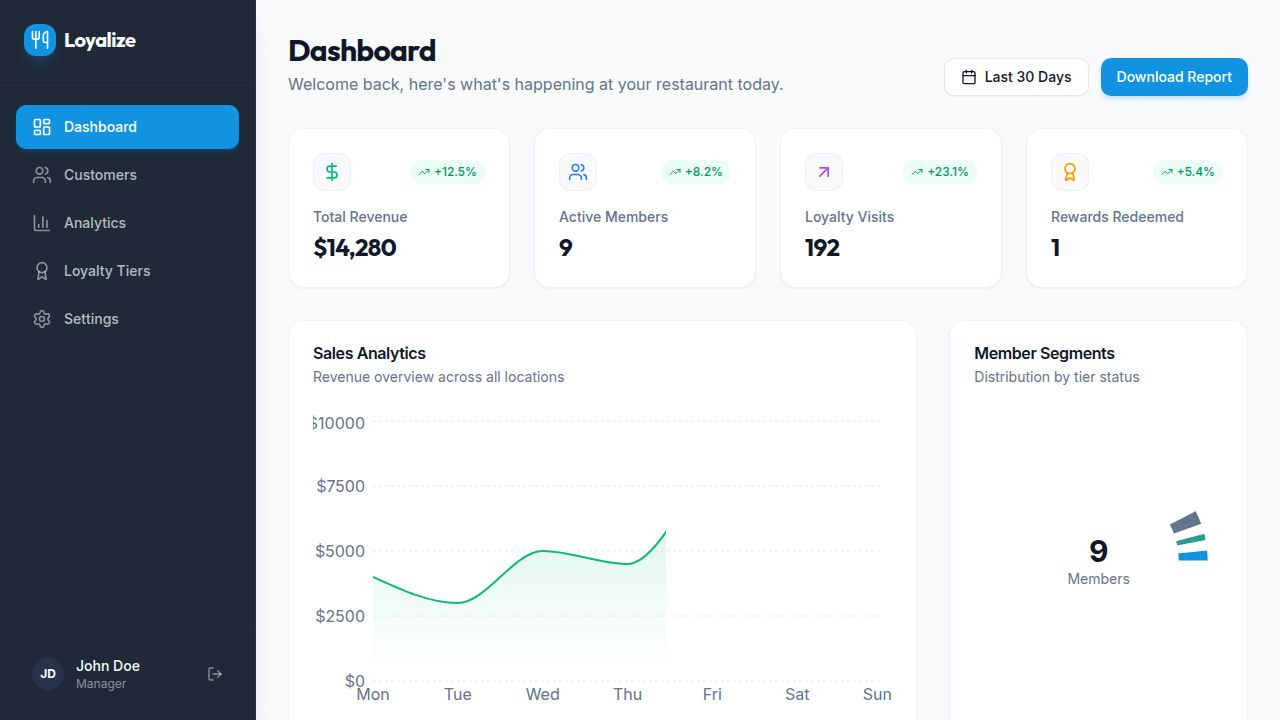
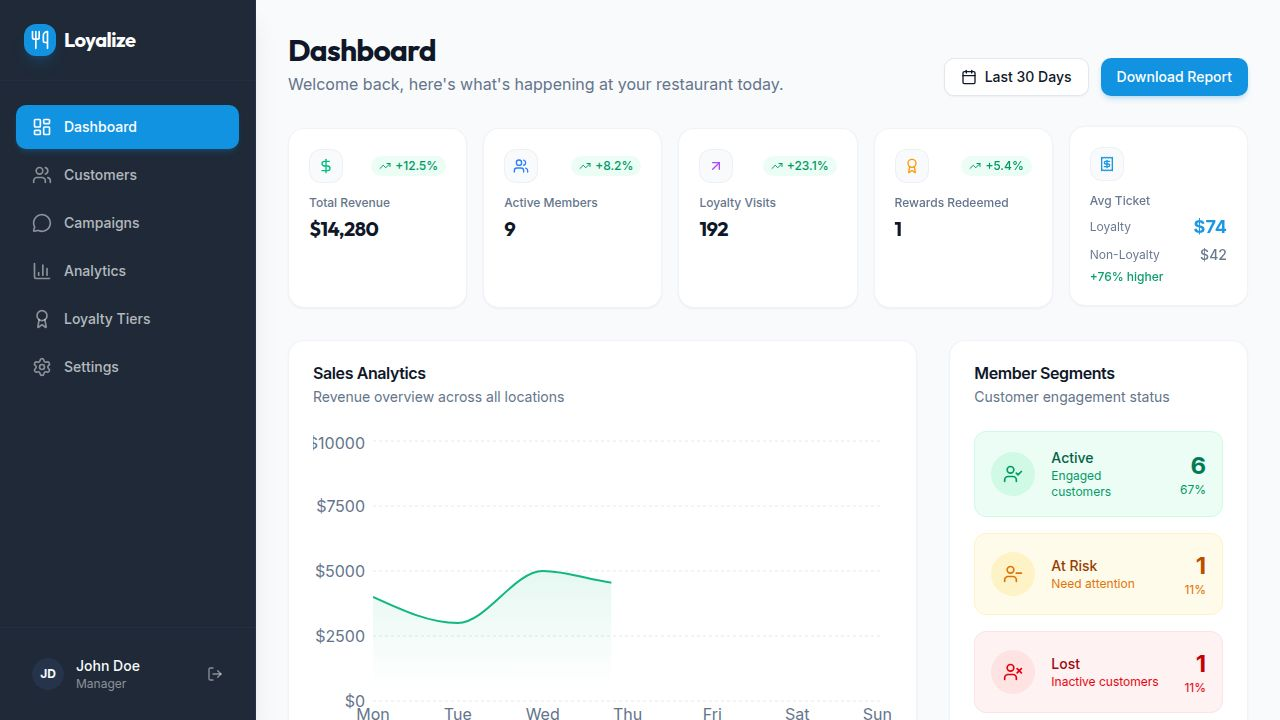
Enhance dashboard with new customer insights and performance metrics
Updates the Dashboard page to include average ticket fields, member segment breakdowns (active, at risk, lost), customer status in recent activity, and a clearer ROI performance section.

Replit-Commit-Author: Agent
Replit-Commit-Session-Id: 42aafcce-3028-4ab4-af1b-540ea4df2283
Replit-Commit-Checkpoint-Type: full_checkpoint
Replit-Commit-Event-Id: 954d9241-168f-4292-a077-9f0b1edd58d3
Replit-Commit-Screenshot-Url: https://storage.googleapis.com/screenshot-production-us-central1/ea7dd70d-8589-477d-a2ce-31a386247f2c/42aafcce-3028-4ab4-af1b-540ea4df2283/O4qFbhi
Replit-Helium-Checkpoint-Created: true

diff --git a/client/src/pages/Dashboard.tsx b/client/src/pages/Dashboard.tsx
@@ -1,7 +1,7 @@
 import { Layout } from "@/components/Layout";
 import { Card, CardContent, CardHeader, CardTitle, CardDescription } from "@/components/ui/card";
-import { AreaChart, Area, XAxis, YAxis, CartesianGrid, Tooltip, ResponsiveContainer, BarChart, Bar, PieChart, Pie, Cell } from 'recharts';
-import { TrendingUp, Users, Award, ArrowUpRight, DollarSign, Calendar, Loader2 } from "lucide-react";
+import { AreaChart, Area, XAxis, YAxis, CartesianGrid, Tooltip, ResponsiveContainer, BarChart, Bar, Legend } from 'recharts';
+import { TrendingUp, Users, Award, ArrowUpRight, DollarSign, Calendar, Loader2, UserCheck, UserX, UserMinus, Receipt } from "lucide-react";
 import { motion } from "framer-motion";
 import { useQuery } from "@tanstack/react-query";
 import { dashboardApi, customersApi, activitiesApi } from "@/lib/api";
@@ -17,10 +17,10 @@ const salesData = [
 ];
 
 const roiData = [
-  { month: 'Jan', cost: 1200, revenue: 8500 },
-  { month: 'Feb', cost: 1400, revenue: 9800 },
-  { month: 'Mar', cost: 1100, revenue: 10500 },
-  { month: 'Apr', cost: 1600, revenue: 12000 },
+  { month: 'Jan', rewardCost: 1200, revenueFromRewards: 8500, roi: 608 },
+  { month: 'Feb', rewardCost: 1400, revenueFromRewards: 9800, roi: 600 },
+  { month: 'Mar', rewardCost: 1100, revenueFromRewards: 10500, roi: 854 },
+  { month: 'Apr', rewardCost: 1600, revenueFromRewards: 12000, roi: 650 },
 ];
 
 export default function Dashboard() {
@@ -39,21 +39,31 @@ export default function Dashboard() {
     queryFn: () => activitiesApi.getAll(5),
   });
 
-  const tiersData = customers ? [
-    { name: 'Platinum', value: customers.filter(c => c.tier === 'Platinum').length, color: 'hsl(var(--primary))' },
-    { name: 'Gold', value: customers.filter(c => c.tier === 'Gold').length, color: 'hsl(173, 58%, 39%)' },
-    { name: 'Silver', value: customers.filter(c => c.tier === 'Silver').length, color: 'hsl(215.4, 16.3%, 46.9%)' },
-  ] : [];
+  const activeCustomers = customers?.filter(c => c.segment !== "At Risk" && c.segment !== "Occasional" && c.visits > 0) || [];
+  const atRiskCustomers = customers?.filter(c => c.segment === "At Risk") || [];
+  const lostCustomers = customers?.filter(c => c.segment === "Occasional" && c.visits <= 1) || [];
 
   const totalMembers = customers?.length || 0;
+
+  const avgLoyaltyTicket = customers && customers.length > 0
+    ? (customers.reduce((sum, c) => sum + parseFloat(c.spend || "0"), 0) / customers.reduce((sum, c) => sum + c.visits, 0) || 0).toFixed(0)
+    : "0";
+  
+  const avgNonLoyaltyTicket = 42;
 
   const recentActivity = activities?.map(a => {
     const customer = customers?.find(c => c.id === a.customerId);
     return {
       ...a,
       customerName: customer?.name || "Unknown Customer",
+      customerTier: customer?.tier || "Silver",
+      customerSegment: customer?.segment || "Regular",
     };
   }) || [];
+
+  const totalRoiRevenue = roiData.reduce((sum, d) => sum + d.revenueFromRewards, 0);
+  const totalRoiCost = roiData.reduce((sum, d) => sum + d.rewardCost, 0);
+  const overallRoi = ((totalRoiRevenue - totalRoiCost) / totalRoiCost * 100).toFixed(0);
 
   if (statsLoading) {
     return (
@@ -64,6 +74,12 @@ export default function Dashboard() {
       </Layout>
     );
   }
+
+  const getTierBadge = (tier: string) => {
+    if (tier === 'Platinum') return "bg-slate-800 text-white";
+    if (tier === 'Gold') return "bg-amber-100 text-amber-800";
+    return "bg-slate-100 text-slate-700";
+  };
 
   return (
     <Layout>
@@ -84,12 +100,13 @@ export default function Dashboard() {
       </header>
 
       {/* KPI Cards */}
-      <div className="grid grid-cols-1 md:grid-cols-2 lg:grid-cols-4 gap-6 mb-8">
+      <div className="grid grid-cols-1 md:grid-cols-2 lg:grid-cols-5 gap-4 mb-8">
         {[
           { title: "Total Revenue", value: `$${(stats?.totalRevenue || 0).toLocaleString()}`, trend: "+12.5%", icon: DollarSign, color: "text-emerald-500" },
           { title: "Active Members", value: (stats?.activeMembers || 0).toLocaleString(), trend: "+8.2%", icon: Users, color: "text-blue-500" },
           { title: "Loyalty Visits", value: (stats?.loyaltyVisits || 0).toLocaleString(), trend: "+23.1%", icon: ArrowUpRight, color: "text-purple-500" },
           { title: "Rewards Redeemed", value: (stats?.rewardsRedeemed || 0).toString(), trend: "+5.4%", icon: Award, color: "text-amber-500" },
+          { title: "Avg Ticket", value: "", isTicketComparison: true, icon: Receipt, color: "text-primary" },
         ].map((stat, i) => (
           <motion.div
             key={i}
@@ -97,20 +114,38 @@ export default function Dashboard() {
             animate={{ opacity: 1, y: 0 }}
             transition={{ delay: i * 0.1 }}
           >
-            <Card className="border-border/50 shadow-sm hover:shadow-md transition-shadow">
-              <CardContent className="p-6">
-                <div className="flex items-center justify-between mb-4">
+            <Card className="border-border/50 shadow-sm hover:shadow-md transition-shadow h-full">
+              <CardContent className="p-5">
+                <div className="flex items-center justify-between mb-3">
                   <div className={`p-2 rounded-lg bg-background border border-border/50 ${stat.color}`}>
-                    <stat.icon className="w-5 h-5" />
+                    <stat.icon className="w-4 h-4" />
                   </div>
-                  <span className="text-xs font-medium text-emerald-600 bg-emerald-50 px-2 py-1 rounded-full flex items-center gap-1">
-                    <TrendingUp className="w-3 h-3" />
-                    {stat.trend}
-                  </span>
+                  {stat.trend && (
+                    <span className="text-xs font-medium text-emerald-600 bg-emerald-50 px-2 py-0.5 rounded-full flex items-center gap-1">
+                      <TrendingUp className="w-3 h-3" />
+                      {stat.trend}
+                    </span>
+                  )}
                 </div>
                 <div className="space-y-1">
-                  <p className="text-sm font-medium text-muted-foreground">{stat.title}</p>
-                  <h3 className="text-2xl font-bold text-foreground">{stat.value}</h3>
+                  <p className="text-xs font-medium text-muted-foreground">{stat.title}</p>
+                  {stat.isTicketComparison ? (
+                    <div className="space-y-1">
+                      <div className="flex items-center justify-between">
+                        <span className="text-xs text-muted-foreground">Loyalty</span>
+                        <span className="text-lg font-bold text-primary">${avgLoyaltyTicket}</span>
+                      </div>
+                      <div className="flex items-center justify-between">
+                        <span className="text-xs text-muted-foreground">Non-Loyalty</span>
+                        <span className="text-sm font-medium text-muted-foreground">${avgNonLoyaltyTicket}</span>
+                      </div>
+                      <div className="text-xs text-emerald-600 font-medium">
+                        +{((parseInt(avgLoyaltyTicket) / avgNonLoyaltyTicket - 1) * 100).toFixed(0)}% higher
+                      </div>
+                    </div>
+                  ) : (
+                    <h3 className="text-xl font-bold text-foreground">{stat.value}</h3>
+                  )}
                 </div>
               </CardContent>
             </Card>
@@ -152,29 +187,55 @@ export default function Dashboard() {
         <Card className="col-span-1 shadow-sm border-border/50">
           <CardHeader>
             <CardTitle>Member Segments</CardTitle>
-            <CardDescription>Distribution by tier status</CardDescription>
+            <CardDescription>Customer engagement status</CardDescription>
           </CardHeader>
-          <CardContent>
-            <div className="h-[300px] w-full relative">
-               <ResponsiveContainer width="100%" height="100%">
-                <PieChart>
-                  <Pie
-                    data={tiersData}
-                    innerRadius={80}
-                    outerRadius={110}
-                    paddingAngle={5}
-                    dataKey="value"
-                  >
-                    {tiersData.map((entry, index) => (
-                      <Cell key={`cell-${index}`} fill={entry.color} />
-                    ))}
-                  </Pie>
-                  <Tooltip contentStyle={{ borderRadius: '8px', border: 'none', boxShadow: '0 4px 12px rgba(0,0,0,0.1)' }} />
-                </PieChart>
-              </ResponsiveContainer>
-              <div className="absolute inset-0 flex flex-col items-center justify-center pointer-events-none">
-                <span className="text-3xl font-bold">{totalMembers}</span>
-                <span className="text-sm text-muted-foreground">Members</span>
+          <CardContent className="space-y-4">
+            <div className="flex items-center gap-4 p-4 rounded-lg bg-emerald-50 border border-emerald-100">
+              <div className="p-3 rounded-full bg-emerald-100">
+                <UserCheck className="w-5 h-5 text-emerald-600" />
+              </div>
+              <div className="flex-1">
+                <p className="text-sm font-medium text-emerald-800">Active</p>
+                <p className="text-xs text-emerald-600">Engaged customers</p>
+              </div>
+              <div className="text-right">
+                <p className="text-2xl font-bold text-emerald-700">{activeCustomers.length}</p>
+                <p className="text-xs text-emerald-600">{totalMembers > 0 ? ((activeCustomers.length / totalMembers) * 100).toFixed(0) : 0}%</p>
+              </div>
+            </div>
+
+            <div className="flex items-center gap-4 p-4 rounded-lg bg-amber-50 border border-amber-100">
+              <div className="p-3 rounded-full bg-amber-100">
+                <UserMinus className="w-5 h-5 text-amber-600" />
+              </div>
+              <div className="flex-1">
+                <p className="text-sm font-medium text-amber-800">At Risk</p>
+                <p className="text-xs text-amber-600">Need attention</p>
+              </div>
+              <div className="text-right">
+                <p className="text-2xl font-bold text-amber-700">{atRiskCustomers.length}</p>
+                <p className="text-xs text-amber-600">{totalMembers > 0 ? ((atRiskCustomers.length / totalMembers) * 100).toFixed(0) : 0}%</p>
+              </div>
+            </div>
+
+            <div className="flex items-center gap-4 p-4 rounded-lg bg-red-50 border border-red-100">
+              <div className="p-3 rounded-full bg-red-100">
+                <UserX className="w-5 h-5 text-red-600" />
+              </div>
+              <div className="flex-1">
+                <p className="text-sm font-medium text-red-800">Lost</p>
+                <p className="text-xs text-red-600">Inactive customers</p>
+              </div>
+              <div className="text-right">
+                <p className="text-2xl font-bold text-red-700">{lostCustomers.length}</p>
+                <p className="text-xs text-red-600">{totalMembers > 0 ? ((lostCustomers.length / totalMembers) * 100).toFixed(0) : 0}%</p>
+              </div>
+            </div>
+
+            <div className="pt-2 border-t border-border/50">
+              <div className="flex justify-between text-sm">
+                <span className="text-muted-foreground">Total Members</span>
+                <span className="font-bold">{totalMembers}</span>
               </div>
             </div>
           </CardContent>
@@ -185,19 +246,52 @@ export default function Dashboard() {
       <div className="grid grid-cols-1 lg:grid-cols-3 gap-8">
         <Card className="col-span-1 lg:col-span-2 shadow-sm border-border/50">
           <CardHeader>
-            <CardTitle>Reward Performance ROI</CardTitle>
-            <CardDescription>Cost of rewards vs. Generated Revenue</CardDescription>
+            <div className="flex items-start justify-between">
+              <div>
+                <CardTitle>Reward Performance ROI</CardTitle>
+                <CardDescription>How much revenue your loyalty rewards generate vs. their cost</CardDescription>
+              </div>
+              <div className="text-right">
+                <div className="text-2xl font-bold text-emerald-600">{overallRoi}%</div>
+                <div className="text-xs text-muted-foreground">Overall ROI</div>
+              </div>
+            </div>
           </CardHeader>
           <CardContent>
-            <div className="h-[300px] w-full">
+            <div className="grid grid-cols-3 gap-4 mb-6">
+              <div className="p-3 rounded-lg bg-primary/5 border border-primary/10">
+                <p className="text-xs text-muted-foreground mb-1">Revenue from Rewards</p>
+                <p className="text-lg font-bold text-primary">${totalRoiRevenue.toLocaleString()}</p>
+                <p className="text-xs text-muted-foreground">Purchases by reward users</p>
+              </div>
+              <div className="p-3 rounded-lg bg-red-50 border border-red-100">
+                <p className="text-xs text-muted-foreground mb-1">Reward Costs</p>
+                <p className="text-lg font-bold text-red-600">${totalRoiCost.toLocaleString()}</p>
+                <p className="text-xs text-muted-foreground">Discounts & free items</p>
+              </div>
+              <div className="p-3 rounded-lg bg-emerald-50 border border-emerald-100">
+                <p className="text-xs text-muted-foreground mb-1">Net Profit</p>
+                <p className="text-lg font-bold text-emerald-600">${(totalRoiRevenue - totalRoiCost).toLocaleString()}</p>
+                <p className="text-xs text-muted-foreground">After reward costs</p>
+              </div>
+            </div>
+            <div className="h-[220px] w-full">
               <ResponsiveContainer width="100%" height="100%">
-                <BarChart data={roiData}>
+                <BarChart data={roiData} barGap={8}>
                   <CartesianGrid strokeDasharray="3 3" vertical={false} stroke="hsl(var(--border))" />
                   <XAxis dataKey="month" stroke="hsl(var(--muted-foreground))" tickLine={false} axisLine={false} />
                   <YAxis stroke="hsl(var(--muted-foreground))" tickLine={false} axisLine={false} tickFormatter={(value) => `$${value}`} />
-                  <Tooltip cursor={{fill: 'transparent'}} contentStyle={{ borderRadius: '8px', border: 'none', boxShadow: '0 4px 12px rgba(0,0,0,0.1)' }} />
-                  <Bar dataKey="revenue" fill="hsl(var(--primary))" radius={[4, 4, 0, 0]} name="Revenue Generated" />
-                  <Bar dataKey="cost" fill="hsl(var(--destructive))" radius={[4, 4, 0, 0]} name="Reward Cost" />
+                  <Tooltip 
+                    cursor={{fill: 'transparent'}} 
+                    contentStyle={{ borderRadius: '8px', border: 'none', boxShadow: '0 4px 12px rgba(0,0,0,0.1)' }}
+                    formatter={(value: number, name: string) => [`$${value.toLocaleString()}`, name === 'revenueFromRewards' ? 'Revenue Generated' : 'Reward Cost']}
+                  />
+                  <Legend 
+                    formatter={(value) => value === 'revenueFromRewards' ? 'Revenue Generated' : 'Reward Cost'}
+                    wrapperStyle={{ paddingTop: '10px' }}
+                  />
+                  <Bar dataKey="revenueFromRewards" fill="hsl(var(--primary))" radius={[4, 4, 0, 0]} />
+                  <Bar dataKey="rewardCost" fill="hsl(0 84% 60%)" radius={[4, 4, 0, 0]} />
                 </BarChart>
               </ResponsiveContainer>
             </div>
@@ -210,13 +304,18 @@ export default function Dashboard() {
             <CardDescription>Latest customer interactions</CardDescription>
           </CardHeader>
           <CardContent>
-            <div className="space-y-6">
+            <div className="space-y-4">
               {recentActivity.length > 0 ? recentActivity.map((act, i) => (
-                <div key={i} className="flex items-start gap-3">
+                <div key={i} className="flex items-start gap-3 pb-4 border-b border-border/50 last:border-0 last:pb-0">
                   <div className={`w-2 h-2 mt-2 rounded-full ${act.type === 'visit' ? 'bg-emerald-500' : 'bg-blue-500'}`} />
-                  <div className="flex-1 space-y-1">
-                    <p className="text-sm font-medium leading-none">{act.customerName}</p>
-                    <p className="text-xs text-muted-foreground">
+                  <div className="flex-1 min-w-0">
+                    <div className="flex items-center gap-2 flex-wrap">
+                      <p className="text-sm font-medium leading-none">{act.customerName}</p>
+                      <span className={`px-1.5 py-0.5 rounded text-[10px] font-medium ${getTierBadge(act.customerTier)}`}>
+                        {act.customerTier}
+                      </span>
+                    </div>
+                    <p className="text-xs text-muted-foreground mt-1">
                       {act.type === 'visit' ? `Visited and spent $${act.amount}` : `Redeemed ${act.rewardUsed}`}
                     </p>
                   </div>
